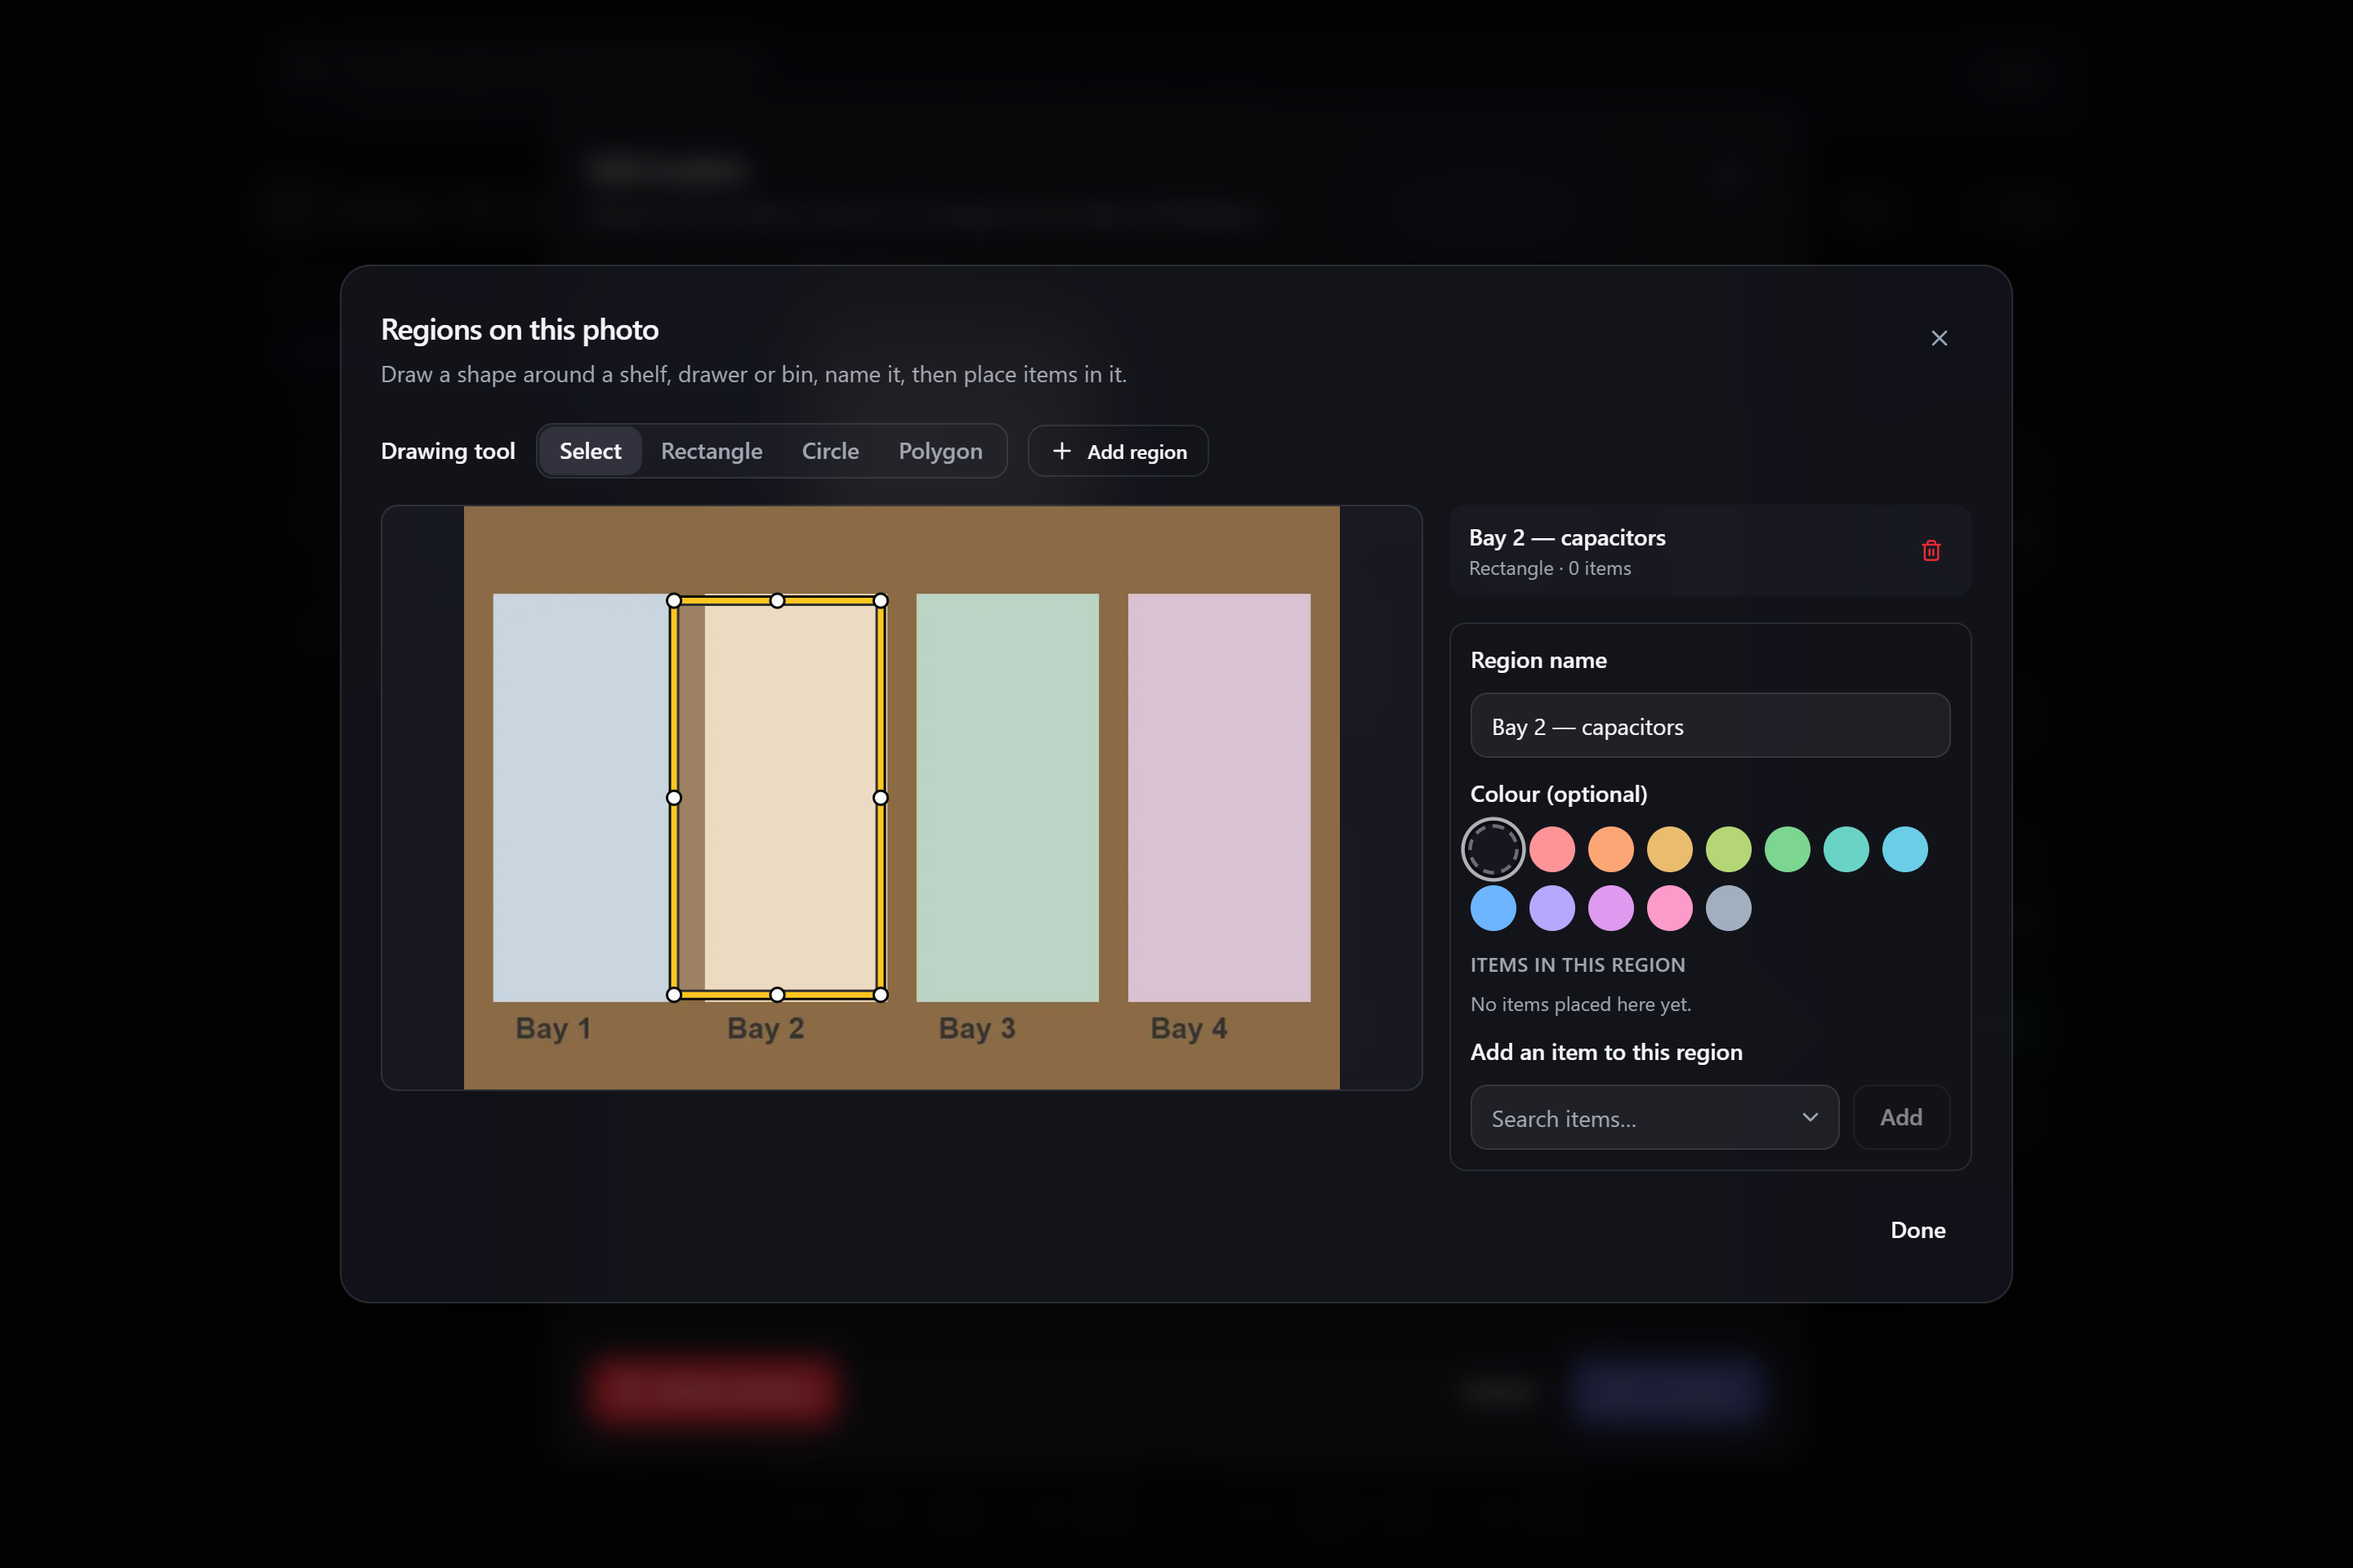
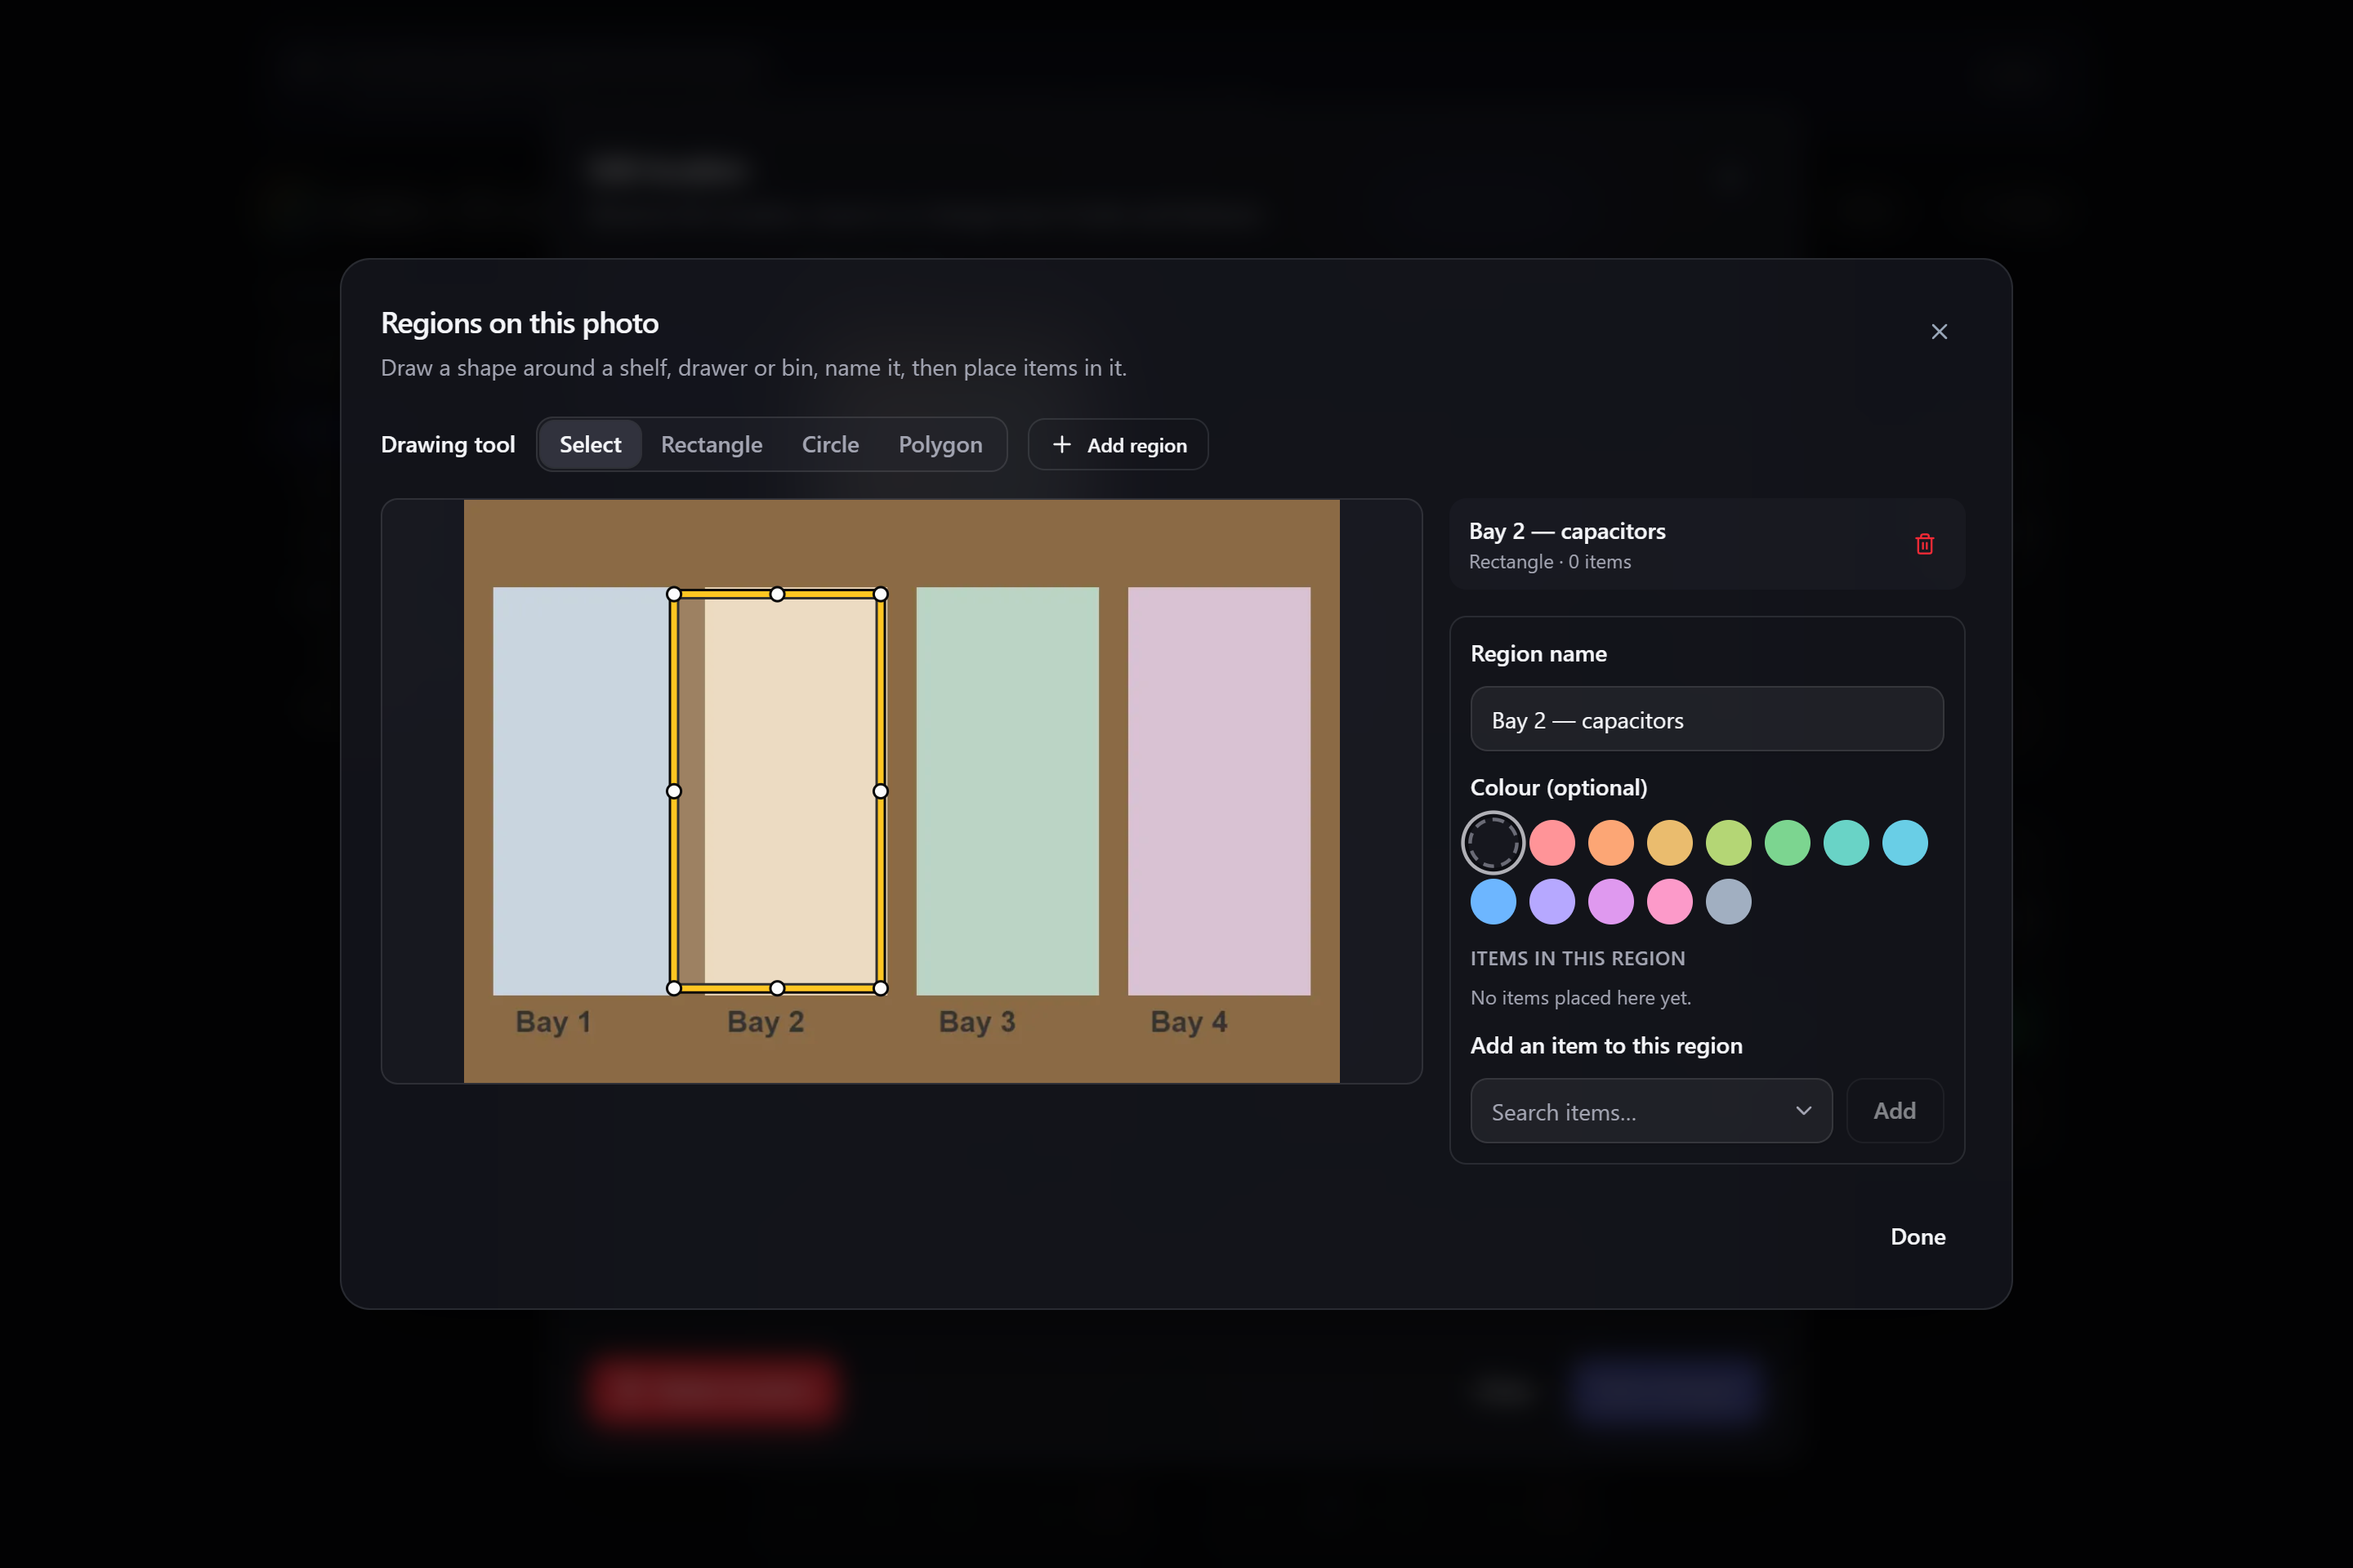
fix(locations): hold the regions dialog still, and name the dismiss action honestly (#81)
Selecting a region in "Regions on this photo" mounted the editor panel below
the region list, and in normal flow that growth resized the whole dialog under
the pointer. Beside the canvas the side column now claims a fixed height and
its content is taken out of flow into its own scroller, so the dialog is one
size whether or not a region is selected. The height is the canvas's own plus
the margin the editor panel needs to sit fully in view — sizing it to the
canvas alone clipped "Add an item to this region" mid-control. Stacked, the
column has no canvas height to borrow and is left in flow, where the dialog is
already scrolling at full height and growth extends that scroll instead.

The Edit location footer offered "Cancel" even when nothing had been touched,
implying there were edits to discard. It now reads "Close" until the form is
actually dirty, reusing the flag that already gates Save.

diff --git a/src/features/inventory/components/RegionEditorDialog.tsx b/src/features/inventory/components/RegionEditorDialog.tsx
@@ -257,45 +257,59 @@ export function RegionEditorDialog({
             )}
           </div>
 
-          <div className="min-w-0 space-y-4">
-            <RegionList
-              rows={rows}
-              selectedId={selectedId}
-              pendingDeleteId={pendingDeleteId}
-              shapeLabel={shapeLabel}
-              onSelect={select}
-              onAskDelete={setPendingDeleteId}
-              onConfirmDelete={confirmDelete}
-              onCancelDelete={() => setPendingDeleteId(null)}
-            />
+          {/* Selecting a region mounts the editor panel below the list, and in normal flow that
+              growth resizes the whole dialog under the pointer. Beside the canvas the column
+              therefore claims a fixed height and its content is taken *out* of flow, scrolling
+              within that box — so the dialog is one size whether or not something is selected.
+              The height is the canvas's own (a 16:9 photo at this dialog's width) plus the
+              margin the editor panel needs to sit fully in view rather than clipped mid-control;
+              a region holding several items still scrolls, which is the honest trade for a
+              dialog that never moves under the pointer.
 
-            {selected ? (
-              <SelectedRegionEditor
-                key={selected.id}
-                photoId={photo.id}
-                region={selected}
-                onError={onFailure}
-                onRename={(name) =>
-                  updateRegion.mutate(
-                    { id: selected.id, input: { name } },
-                    {
-                      onError: onFailure,
-                      onSuccess: () => setAnnouncement(t('inventory.regions.updated', { vars: { name } })),
-                    },
-                  )
-                }
-                onRecolour={(color) =>
-                  updateRegion.mutate(
-                    { id: selected.id, input: { color } },
-                    {
-                      onError: onFailure,
-                      onSuccess: () =>
-                        setAnnouncement(t('inventory.regions.updated', { vars: { name: selected.name } })),
-                    },
-                  )
-                }
+              Stacked, the column is the only thing in its row with no canvas height to borrow,
+              so it is left in flow: there the dialog is already scrolling at full height, and
+              growth extends that scroll rather than re-staging the layout. */}
+          <div className="relative min-w-0 lg:h-[26rem]">
+            <div className="space-y-4 lg:absolute lg:inset-0 lg:overflow-y-auto lg:pr-1">
+              <RegionList
+                rows={rows}
+                selectedId={selectedId}
+                pendingDeleteId={pendingDeleteId}
+                shapeLabel={shapeLabel}
+                onSelect={select}
+                onAskDelete={setPendingDeleteId}
+                onConfirmDelete={confirmDelete}
+                onCancelDelete={() => setPendingDeleteId(null)}
               />
-            ) : null}
+
+              {selected ? (
+                <SelectedRegionEditor
+                  key={selected.id}
+                  photoId={photo.id}
+                  region={selected}
+                  onError={onFailure}
+                  onRename={(name) =>
+                    updateRegion.mutate(
+                      { id: selected.id, input: { name } },
+                      {
+                        onError: onFailure,
+                        onSuccess: () => setAnnouncement(t('inventory.regions.updated', { vars: { name } })),
+                      },
+                    )
+                  }
+                  onRecolour={(color) =>
+                    updateRegion.mutate(
+                      { id: selected.id, input: { color } },
+                      {
+                        onError: onFailure,
+                        onSuccess: () =>
+                          setAnnouncement(t('inventory.regions.updated', { vars: { name: selected.name } })),
+                      },
+                    )
+                  }
+                />
+              ) : null}
+            </div>
           </div>
         </div>
 

diff --git a/src/features/inventory/components/EditLocationDialog.test.tsx b/src/features/inventory/components/EditLocationDialog.test.tsx
@@ -142,8 +142,8 @@ describe('EditLocationDialog — the field surface', () => {
     // The nested editors that persist on their own (tags, inheritable custom fields).
     expect(d.getByText('Tags (optional)')).toBeInTheDocument();
 
-    // Footer actions.
-    expect(d.getByRole('button', { name: 'Cancel' })).toBeInTheDocument();
+    // Footer actions. Nothing has been edited yet, so the dismiss action reads "Close".
+    expect(d.getByTestId('edit-location-dismiss')).toHaveTextContent('Close');
     expect(d.getByRole('button', { name: 'Save changes' })).toBeInTheDocument();
   });
 
@@ -422,6 +422,19 @@ describe('EditLocationDialog — saving', () => {
 });
 
 describe('EditLocationDialog — closing and deleting', () => {
+  it('names the dismiss action for what it actually does', () => {
+    renderDialog();
+    // Untouched: nothing would be lost, so offering to "Cancel" would imply otherwise.
+    expect(dialog().getByTestId('edit-location-dismiss')).toHaveTextContent('Close');
+
+    fireEvent.change(dialog().getByLabelText('Name'), { target: { value: 'Cabinet B' } });
+    expect(dialog().getByTestId('edit-location-dismiss')).toHaveTextContent('Cancel');
+
+    // Reverting the edit puts it back — the label tracks the dirty state, it does not latch.
+    fireEvent.change(dialog().getByLabelText('Name'), { target: { value: 'Cabinet A' } });
+    expect(dialog().getByTestId('edit-location-dismiss')).toHaveTextContent('Close');
+  });
+
   it('Cancel closes without saving', () => {
     const { onClose } = renderDialog();
     fireEvent.change(dialog().getByLabelText('Name'), { target: { value: 'Cabinet B' } });

diff --git a/src/features/inventory/components/EditLocationDialog.tsx b/src/features/inventory/components/EditLocationDialog.tsx
@@ -406,8 +406,10 @@ export function EditLocationDialog({
               <span />
             )}
             <div className="flex gap-2">
-              <Button variant="ghost" onClick={onClose}>
-                Cancel
+              {/* "Cancel" implies discarding work, so it is only honest once there is work to
+                  discard — an untouched dialog is simply being closed. */}
+              <Button variant="ghost" onClick={onClose} data-testid="edit-location-dismiss">
+                {dirty ? t('inventory.location.cancel') : t('inventory.location.close')}
               </Button>
               <Button
                 onClick={submit}
